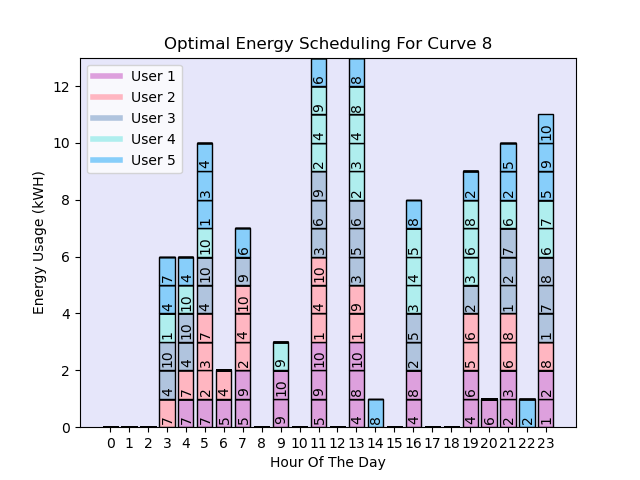
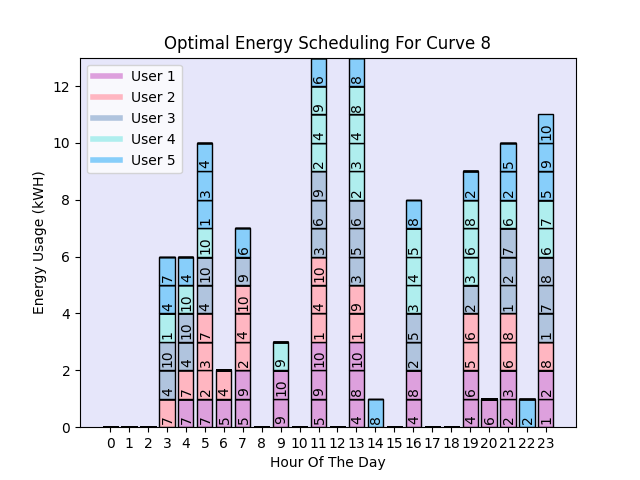
Wrote ReadMe file

diff --git a/Src/Task Planer/TaskSolver.py b/Src/Task Planer/TaskSolver.py
@@ -1,10 +1,11 @@
-from lib2to3.pgen2.token import EQUAL
-from tkinter import Variable
 from pulp import LpMinimize, LpProblem, LpStatus, lpSum, LpVariable
 import numpy as np
 import pandas as pd
 import matplotlib.pyplot as plt
 from matplotlib.lines import Line2D
+import os
+
+dirname = os.path.dirname(__file__)
 
 #findOptimalSchedule crates a linear program to find the most optimal solution
 #for what time each user's tasks should be run, acording to the early time,
@@ -38,8 +39,8 @@ def findOptimalSchedule(priceCurves, userTasks, curveNumber):
     status = model.solve()
 
     # Get the results
-    print(f"status: {model.status}, {LpStatus[model.status]}")
-    print(f"objective: {model.objective.value()}")
+    print(model.status)
+    print(model.objective.value())
 
     #Commented code shows the varible values
     #for var in model.variables():
@@ -76,7 +77,7 @@ def plotGraph(model, allVariables, curveNumber):
         heights = [0] * 24
         for i, task in enumerate(tasks):
             if task.value() != None:
-                heights[i] = int(task.value())
+                heights[int(task.name.split('_')[2][4:6])] = int(task.value())
         
         #Plot the task heights along with task id label
         bar = plt.bar(pos, heights, color=color_list[int(tasks[0].name[4]) - 1], edgecolor='black',bottom=tallestHieghts)
@@ -97,17 +98,17 @@ def plotGraph(model, allVariables, curveNumber):
                 Line2D([0], [0], color=color_list[4], lw=4)],
                 ["User 1", "User 2", "User 3", "User 4", "User 5"], loc=0)
 
-    plt.savefig('..\..\Output\Plots\\'+str(curveNumber)+'.png')
+    plt.savefig(os.path.join(dirname, ('../../Output/Plots/'+str(curveNumber)+'.png')))
     plt.clf()
 
 #Main Program
 
 #Read the labeled priceing curves
-priceCurves = pd.read_csv('..\..\Output\TestingResults.txt', header=None)
+priceCurves = pd.read_csv(os.path.join(dirname, '../../Output/TestingResults.txt'), header=None)
 priceCurves = np.array(priceCurves)
 
 #Read the user task inputs
-userTasks = pd.read_excel('..\..\Input\COMP3217CW2Input.xlsx', sheet_name='User & Task ID',
+userTasks = pd.read_excel(os.path.join(dirname, '../../Input/COMP3217CW2Input.xlsx'), sheet_name='User & Task ID',
     dtype={'User & Task ID': str, 'Ready Time': int, 'Deadline':int, 'Maximum scheduled energy per hour':int, 'Energy Demand':int})
 
 #Find the optimal solution for each curve

diff --git a/Src/Classifier/ClassifierComparison.py b/Src/Classifier/ClassifierComparison.py
@@ -1,22 +1,19 @@
 import numpy as np
 from sklearn.neural_network import MLPClassifier
-from sklearn.svm import LinearSVC
 from sklearn.svm import SVC
-from sklearn.gaussian_process import GaussianProcessClassifier
 from sklearn.neighbors import KNeighborsClassifier
-from sklearn.gaussian_process.kernels import RBF
 from sklearn.tree import DecisionTreeClassifier
 from sklearn.ensemble import RandomForestClassifier, AdaBoostClassifier
 from sklearn.naive_bayes import GaussianNB
 from sklearn.discriminant_analysis import QuadraticDiscriminantAnalysis
 from sklearn.discriminant_analysis import LinearDiscriminantAnalysis
 from sklearn.model_selection import RepeatedKFold
-from sklearn.preprocessing import StandardScaler
-import pandas as pd
-from sklearn.multiclass import OneVsOneClassifier
 from sklearn.preprocessing import MinMaxScaler
-from sklearn.metrics import accuracy_score
 from sklearn.metrics import f1_score
+import pandas as pd
+import os
+
+dirname = os.path.dirname(__file__)
 
 names = [
     "Nearest Neighbors",
@@ -53,7 +50,7 @@ numKFoldSplits = 10
 numKFoldRep = 2
 
 #Read the training data
-data = pd.read_csv('..\..\Data\TrainingData.txt', header=None)
+data = pd.read_csv(os.path.join(dirname, '../../Data/TrainingData.txt'), header=None)
 data = np.array(data)
 #Split the traning data into the two classes, then combine the data so classes are in the order {0,1,0,1,...,0,1}
 data[::2], data[1::2] = [data[(data[:,24]==0)], data[(data[:,24]==1)]]

diff --git a/Src/Classifier/Classifier.py b/Src/Classifier/Classifier.py
@@ -2,14 +2,17 @@ import numpy as np
 from sklearn.svm import SVC
 from sklearn.preprocessing import MinMaxScaler
 import pandas as pd
+import os
+
+dirname = os.path.dirname(__file__)
 
 #The classifier used will be a C-Support Vector Classification with a RBF kernel
 #This scored the highest acuraccy in testing at 94.9%
 classifier = SVC(kernel="rbf", gamma="auto", decision_function_shape='ovo', C=1000)
 
 #Read the training and testing data
-trainingData = pd.read_csv('..\..\Data\TrainingData.txt', header=None)
-testingData = pd.read_csv('..\..\Data\TestingData.txt', header=None)
+trainingData = pd.read_csv(os.path.join(dirname, '../../Data/TrainingData.txt'), header=None)
+testingData = pd.read_csv(os.path.join(dirname, '../../Data/TestingData.txt'), header=None)
 trainingData = np.array(trainingData)
 testingData = np.array(testingData)
 
@@ -27,7 +30,7 @@ clf = classifier.fit(X, y)
 preditctions = clf.predict(testingDataNormalized)
 
 #Write the labels to the output file
-f = open('..\..\Output\TestingResults.txt', "w")
+f = open(os.path.join(dirname, '../../Output/TestingResults.txt'), "w")
 for i in range(len(testingData)):
     for dataPoint in testingData[i]:
         f.write(format(dataPoint, ".14f"))

diff --git a/README.md b/README.md
@@ -1,2 +1,52 @@
 # Energy-Manipulation-Detection
- COMP3217: Detection of Manipulated Pricing in Smart Energy CPS Scheduling
+
+This project schedules the best times to run tasks depending on a given energy price curve.
+This is the coursework for COMP3217, titled: Detection of Manipulated Pricing in Smart 
+Energy CPS Scheduling
+
+## Linux
+
+On linux the run.sh bash script can be run to preform the following steps.
+
+## Setup
+
+requierments.txt contains a lit of python modules that can be installed with the 
+following command:
+
+```BASH
+pip install -r requirements.txt 
+```
+
+### Requirements:
+- numpy
+- sklearn
+- pandas
+- pulp
+- matplotlib
+- openpyxl
+
+## Execution
+
+To label the testing data found in 'Data/TestingData.txt' run the classifier 
+script like so:
+
+```BASH
+python "./Src/Classifier/Classifier.py"
+```
+
+Now the testing data has been labeled and stored at 'Output/TestingResults.txt' an 
+optimal solutions for each task set can be found in 'Input/COMP3217CW2Input.xlsx'
+by runing the TaskSolver script like so:
+
+```BASH
+python "./Src/Task Planer/TaskSolver.py"
+```
+
+## Testing
+
+To compare the acuraccy of each classifier the ClassifierComparison scrpit
+can be run like so:
+
+```BASH
+python "./Src/Classifier/ClassifierComparison.py"
+```
